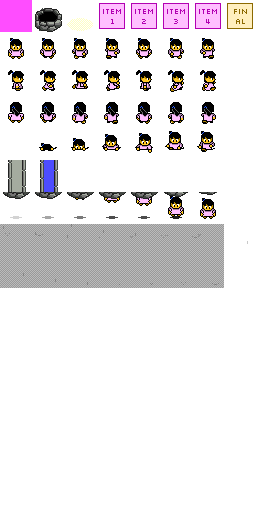
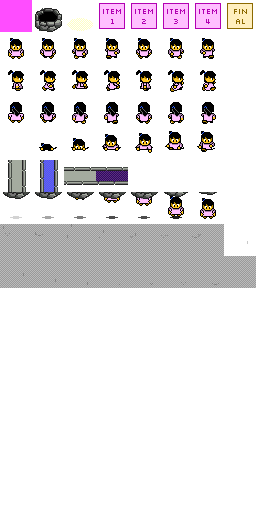
Health bar.

Changed region(s): [[0.25, 0.3125, 0.5, 0.375], [0.875, 0.5, 1.0, 0.5625], [0.1562, 0.3125, 0.2188, 0.375]]

diff --git a/src/player.go b/src/player.go
@@ -1,6 +1,9 @@
 package main
 
-import "../libs/twodee"
+import (
+	"../libs/twodee"
+	"time"
+)
 
 type DirectionsHistoryEntry struct {
 	prev, next *DirectionsHistoryEntry
@@ -67,7 +70,8 @@ func NewDirectionsHistory() (dh *DirectionsHistory) {
 
 type Player struct {
 	*twodee.AnimatingEntity
-	Health            float32
+	MaxHealth         int32
+	Health            int32
 	Speed             float32
 	Velocity          twodee.Point
 	DirectionsHistory *DirectionsHistory
@@ -92,6 +96,16 @@ const (
 	Down
 	ClimbUp
 	ClimbDown
+)
+
+const (
+	Fudge                = 0.02
+	PlayerBaseSpeed      = 0.2
+	PlayerFastSpeed      = 0.3
+	PlayerSuperFastSpeed = 0.4
+	PlayerBaseHealth     = 1000
+	PlayerWaterDamage    = 10
+	PlayerHealthRegen    = 4
 )
 
 var PlayerAnimations = map[EntityState][]int{
@@ -119,7 +133,8 @@ func NewPlayer(x, y float32) (player *Player) {
 			twodee.Step10Hz,
 			[]int{8},
 		),
-		Health:            100.0,
+		MaxHealth:         PlayerBaseHealth,
+		Health:            PlayerBaseHealth,
 		Speed:             PlayerBaseSpeed,
 		Velocity:          twodee.Pt(0, 0),
 		DirectionsHistory: NewDirectionsHistory(),
@@ -176,8 +191,6 @@ func (p *Player) UpdateDesiredMove(d MoveDirection, invert bool) {
 	p.DesiredMove = p.DirectionsHistory.LatestDirection()
 }
 
-const Fudge = 0.02
-
 func (p *Player) AttemptMove(l *Level) {
 	if !p.CanMove {
 		return
@@ -223,21 +236,15 @@ func (p *Player) AttemptMove(l *Level) {
 	}
 }
 
-const (
-	PlayerBaseSpeed      = 0.2
-	PlayerFastSpeed      = 0.3
-	PlayerSuperFastSpeed = 0.4
-)
-
 func (p *Player) AddToInventory(item *Item) {
 	p.Inventory = append(p.Inventory, item)
 	switch item.Id {
 	case Item1:
-		p.Health = p.Health + 10
+		p.MaxHealth += 100
 	case Item2:
-		p.Health = p.Health + 20
+		p.MaxHealth += 100
 	case Item3:
-		p.Health = p.Health + 30
+		p.MaxHealth += PlayerBaseHealth
 	case Item4:
 		if p.Speed < PlayerFastSpeed {
 			p.Speed = PlayerFastSpeed
@@ -253,4 +260,19 @@ func (p *Player) AddToInventory(item *Item) {
 
 func (p *Player) CanDestroy(item *Item) bool {
 	return p.destroyableItems[item.Id]
+}
+
+func (p *Player) Update(elapsed time.Duration) {
+	p.AnimatingEntity.Update(elapsed)
+	if p.Health < p.MaxHealth {
+		p.Health += PlayerHealthRegen
+	}
+}
+
+func (p *Player) Damage(damage int32) {
+	p.Health -= damage
+}
+
+func (p *Player) HealthPercent() float32 {
+	return float32(p.Health) / float32(p.MaxHealth)
 }

diff --git a/src/hud_layer.go b/src/hud_layer.go
@@ -13,12 +13,16 @@ type HudLayer struct {
 }
 
 const (
-	HudHeight   = 20
-	HudWidth    = 20
-	HudXPadding = 0
-	HudYPadding = 1
-	EmptyTile   = 40
-	FullTile    = 41
+	HudHeight         = 20
+	HudWidth          = 20
+	HudWaterXPadding  = 0
+	HudWaterYPadding  = 1
+	HudHealthXPadding = 2
+	HudHealthYPadding = 0
+	EmptyWaterTile    = 40
+	FullWaterTile     = 41
+	EmptyHealthTile   = 42
+	FullHealthTile    = 43
 )
 
 func NewHudLayer(app *Application, game *GameLayer) (layer *HudLayer, err error) {
@@ -45,23 +49,50 @@ func (l *HudLayer) Delete() {
 	}
 }
 
-func (l *HudLayer) Render() {
-	l.TileRenderer.Bind()
+func (l *HudLayer) RenderWater() {
 	var (
-		tiles  = HudHeight - (2 * HudYPadding)
+		tiles  = HudHeight - (2 * HudWaterYPadding)
 		filled = int(l.game.Level.GetTotalWaterPercent() * float32(tiles))
 	)
 	for i := 0; i < tiles; i++ {
 		var (
-			x    = float32(HudWidth-HudXPadding) - 0.5
-			y    = float32(i+HudYPadding) + 0.5
-			tile = EmptyTile
+			x    = float32(HudWidth-HudWaterXPadding) - 0.5
+			y    = float32(i+HudWaterYPadding) + 0.5
+			tile = EmptyWaterTile
 		)
 		if i < filled {
-			tile = FullTile
+			tile = FullWaterTile
 		}
 		l.TileRenderer.Draw(tile, x, y, 0, false, false)
 	}
+}
+
+func (l *HudLayer) RenderHealth() {
+	var (
+		health = l.game.Level.Player.HealthPercent()
+		tiles  = HudWidth - (2 * HudHealthXPadding)
+		filled = int(health * float32(tiles))
+	)
+	if health == 1.0 {
+		return
+	}
+	for i := 0; i < tiles; i++ {
+		var (
+			x    = float32(i+HudHealthXPadding) + 0.5
+			y    = float32(HudHeight-HudHealthYPadding) - 0.5
+			tile = EmptyHealthTile
+		)
+		if i < filled {
+			tile = FullHealthTile
+		}
+		l.TileRenderer.Draw(tile, x, y, 0, false, false)
+	}
+}
+
+func (l *HudLayer) Render() {
+	l.TileRenderer.Bind()
+	l.RenderWater()
+	l.RenderHealth()
 	l.TileRenderer.Unbind()
 }
 
